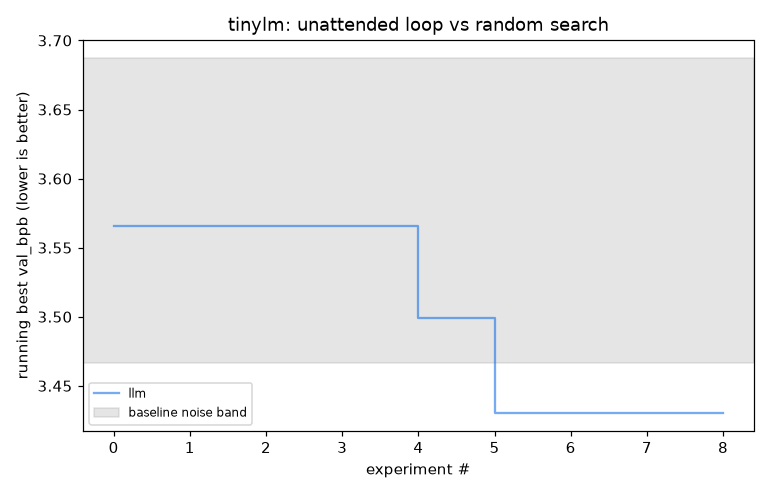
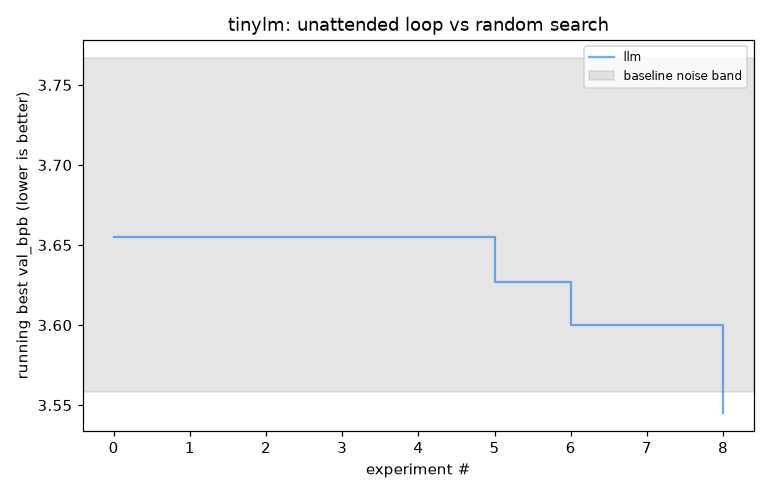
WIP: autoresearch audit fixes (verification pending)
Claude-Session: https://claude.ai/code/session_01WGuinNac91tRBBDjcwnTxW

diff --git a/tests/test_autoresearch_domains.py b/tests/test_autoresearch_domains.py
@@ -12,7 +12,7 @@ def tinylm(tmp_path_factory):
     from rsi.domains.tinylm import TinyLMTask
 
     root = tmp_path_factory.mktemp("tinylm_data")
-    task = TinyLMTask(budget_s=0.6, kill_after=4.0, data_root=root)
+    task = TinyLMTask(budget_s=0.6, kill_after=8.0, data_root=root)   # 0.6 s budget; eval alone took up to ~3.8 s under shared load (28 Sep)
     task.prepare()
     return task
 

diff --git a/docs/methods/autoresearch-impl.md b/docs/methods/autoresearch-impl.md
@@ -37,7 +37,7 @@ All numbers come from `results/autoresearch/<name>.json`, where each file also h
 | **E12** `e12_gbt` | Non-LLM adaptation (GBT vs a held-out metric) | tabular, 25 experiments x 3 seeds: FE+HPO agent vs HPO-only agent vs random HPO (best of N); hidden iid + shifted audits of every keep | Re-run 28 Sep with the default `UpstreamKeep`. FE+HPO: CV **+0.020**, hidden iid **+0.021**, shifted **-0.025** (the `x7` shift trap is kept in 2 of 3 seeds). HPO-only: CV +0.005, iid +0.0035, shift +0.003. Random HPO: iid +0.0034 (the agent's HPO is no better than random HPO). FE adds **+0.018 iid AUC** beyond HPO. The change from the 25 Sep run (FE+HPO iid +0.028, trap in 3/3) comes from one decision: in seed 2 the simplicity clause discarded a one-line feature that gained only +0.00001 CV AUC (below its 0.00005 line cost), and that night then took a different path; tabular runs are otherwise deterministic | **yes** |
 | **E13** `e13_frame_dependent` | Frame-dependent features inflate CV but break at audit time (xgboost commit `9d6ee8b`) | tabular; 4 frame-dependent features (counts, frequencies, frame max, frame z-score), each paired with a legal twin fitted on `train`; deterministic | The mechanical per-row check flags **100%** of the frame-dependent features and **0%** of the twins; a prompt rule alone flags nothing. CV cannot tell a feature from its twin (identical CV). On the 50k-row audit frame the worst one (bucket counts) loses **0.006** iid AUC vs its twin; the others are harmless here. None of them raises CV: no labels reach `featurize`, so the port's CV inflation cannot occur in this setup | **partly** (detection yes; damage small; no CV inflation) |
 | live smoke (re-run 28 Sep) `example_new_problem --llm claude:haiku --quick` | One command away on a new problem | polynomial-ridge template, 6 experiments proposed by Claude Haiku 4.5 (RewriteEditor, fresh cache dir), hardened, fixed defaults (full history, restored program.md wording) | 6 LLM calls, **$0.21**, 19k input / 38k output tokens, 6.8 min wall (LLM latency dominates). 6 keeps, 0 discards: DEGREE 1->9 with RIDGE 1.0->0.1 (+0.603), sin/cos features with DEGREE 9->6 (+0.0018, pays its added lines), DEGREE 6->3 (+0.0002), then three RIDGE reductions with gains below 1e-4 (strictly positive, so kept: the luck caveat). R^2 0.274 -> 0.879, the level the scripted agent reaches in 20 experiments | works |
-| live smoke (re-run 28 Sep) `e1_progress --llm claude:haiku --seeds 1 --quick` | One command away | tinylm 2 s budget, 8 experiments proposed by Claude Haiku 4.5 (fresh cache dir), fixed defaults | 8 LLM calls, **$0.55**, 100k input / 70k output tokens, 0 parse failures, 0 crashes. 2 keeps (WARMDOWN 0.5->0.2->0.1), 6 honest discards (bigger CONTEXT/EMBED/HIDDEN, DEPTH 2, lower LR, WARMDOWN 0.05, FINAL_LR_FRAC 0.1, warmup). val_bpb 3.638 -> 3.522 on a 3-seed honest re-eval (recorded 3.566 -> 3.430; optimism gap 0.09). About 37 experiments/h (agent latency dominates, N11) | works |
+| live smoke (re-run 28 Sep) `e1_progress --llm claude:haiku --seeds 1 --quick` | One command away | tinylm 2 s budget, 8 experiments proposed by Claude Haiku 4.5 (fresh cache dir), fixed defaults incl. the run-memory fix | 8 LLM calls, **$0.54**, 101k input / 68k output tokens, 0 parse failures, 0 crashes. 3 keeps (WARMDOWN 0.5->0.25->0.15, LR 0.003->0.0035), 5 honest discards (DEPTH 2 + WD, CONTEXT 12, no warmdown, LR 0.002, WARMDOWN 0.10). val_bpb 3.732 -> 3.559 on a 3-seed honest re-eval (recorded 3.655 -> 3.545). About 37 experiments/h (agent latency dominates, N11). An earlier 28 Sep run, before the run-memory fix, cost $0.55 (2 keeps, WARMDOWN 0.5->0.2->0.1; honest 3.638 -> 3.522) | works |
 | example `example_new_problem` | Template for a new user problem | polynomial ridge regression, 20 scripted experiments, hardened mode with a pasted `RECORD_HELPER` | R^2 0.274 -> 0.878 (DEGREE 1->3->5->7, SCALE, RIDGE) | works |
 
 Not run: E9 (backend port, e.g. numpy float64 vs float32) and the live E7 comparison.
@@ -278,7 +278,7 @@ The claim-by-claim audit (`docs/claims/autoresearch.md`) found eleven mismatches
 7. **Parallel monitor (AUDIT #23).** Shadow audits are postponed while parallel runs are in flight under a wall-clock budget.
 8. **Documented, not code:** N11 (live throughput is set by agent latency) and the CONTRADICTED lock claim (upstream's lock is instruction-only; faithful mode keeps it so on purpose, hardened mode enforces it; Deviations #20).
 
-Effects on the re-run experiments: on one-line knob edits `UpstreamKeep` equals strict, so E1, E3, E5 and E7 are unchanged in kind; the VRAM clause shifted the landscape nights slightly (E2, E5, E11); in E12 the simplicity clause discarded one +0.00001 one-line feature, which changed that night's path (FE+HPO iid gain +0.021 instead of +0.028). E4's hardened loop kept 0 of 8 injected exploits (0 bogus classes). Live spend for the re-runs: **$0.76** (E1 quick $0.55, example $0.21).
+Effects on the re-run experiments: on one-line knob edits `UpstreamKeep` equals strict, so E1, E3, E5 and E7 are unchanged in kind; the VRAM clause shifted the landscape nights slightly (E2, E5, E11); in E12 the simplicity clause discarded one +0.00001 one-line feature, which changed that night's path (FE+HPO iid gain +0.021 instead of +0.028). E4's hardened loop kept 0 of 8 injected exploits (0 bogus classes). Live spend for the re-runs: **$1.31** (E1 quick twice, $0.55 + $0.54, because the run-memory fix changed the memory column in the prompt; example $0.21), each with a fresh cache dir.
 
 ## Review log (25 Sep 2026)
 

diff --git a/validation/autoresearch/AUDIT.md b/validation/autoresearch/AUDIT.md
@@ -396,3 +396,9 @@ register:
 `train.py` summary block. They remain correct records of that code and were not re-run; the step verdicts above
 describe them. New runs use the fixed defaults.
 
+**Memory column of the recorded runs.** While fixing claims N1/N8 we found that the locked evaluators' `peak_mem_mb`
+read `ru_maxrss`, which Linux carries over from the process image that exec'd the run, so every recorded
+`memory_gb` (0.1 GB in all four runs) partly measured the launching Python process. The evaluators now read the run's
+own `VmHWM` (`test_run_memory_is_not_the_launchers_peak`). No recorded decision used memory (strict rule), so the
+step verdicts are unaffected.
+
